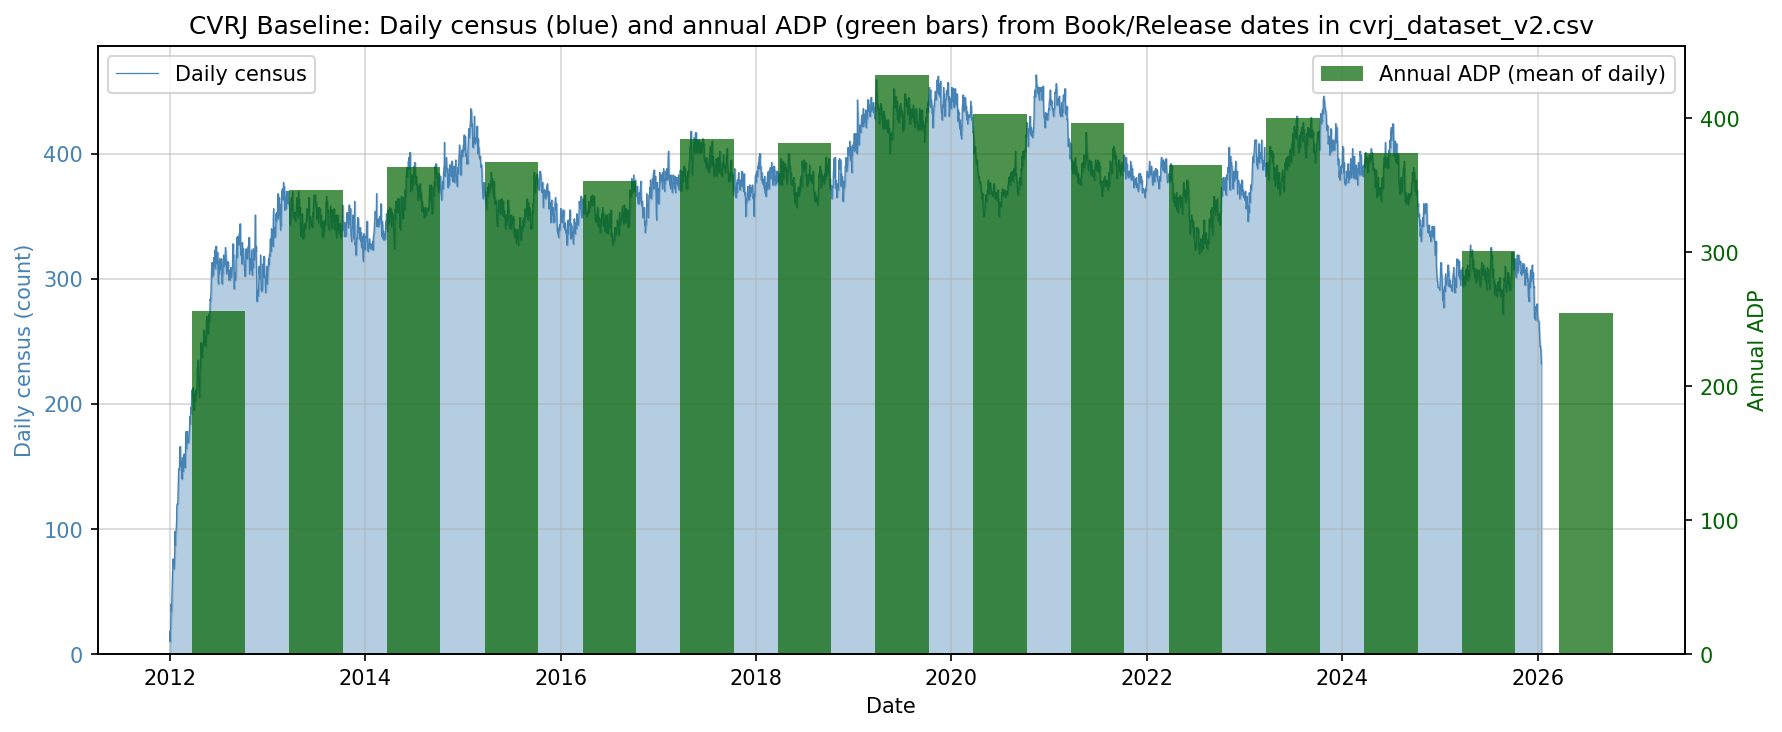
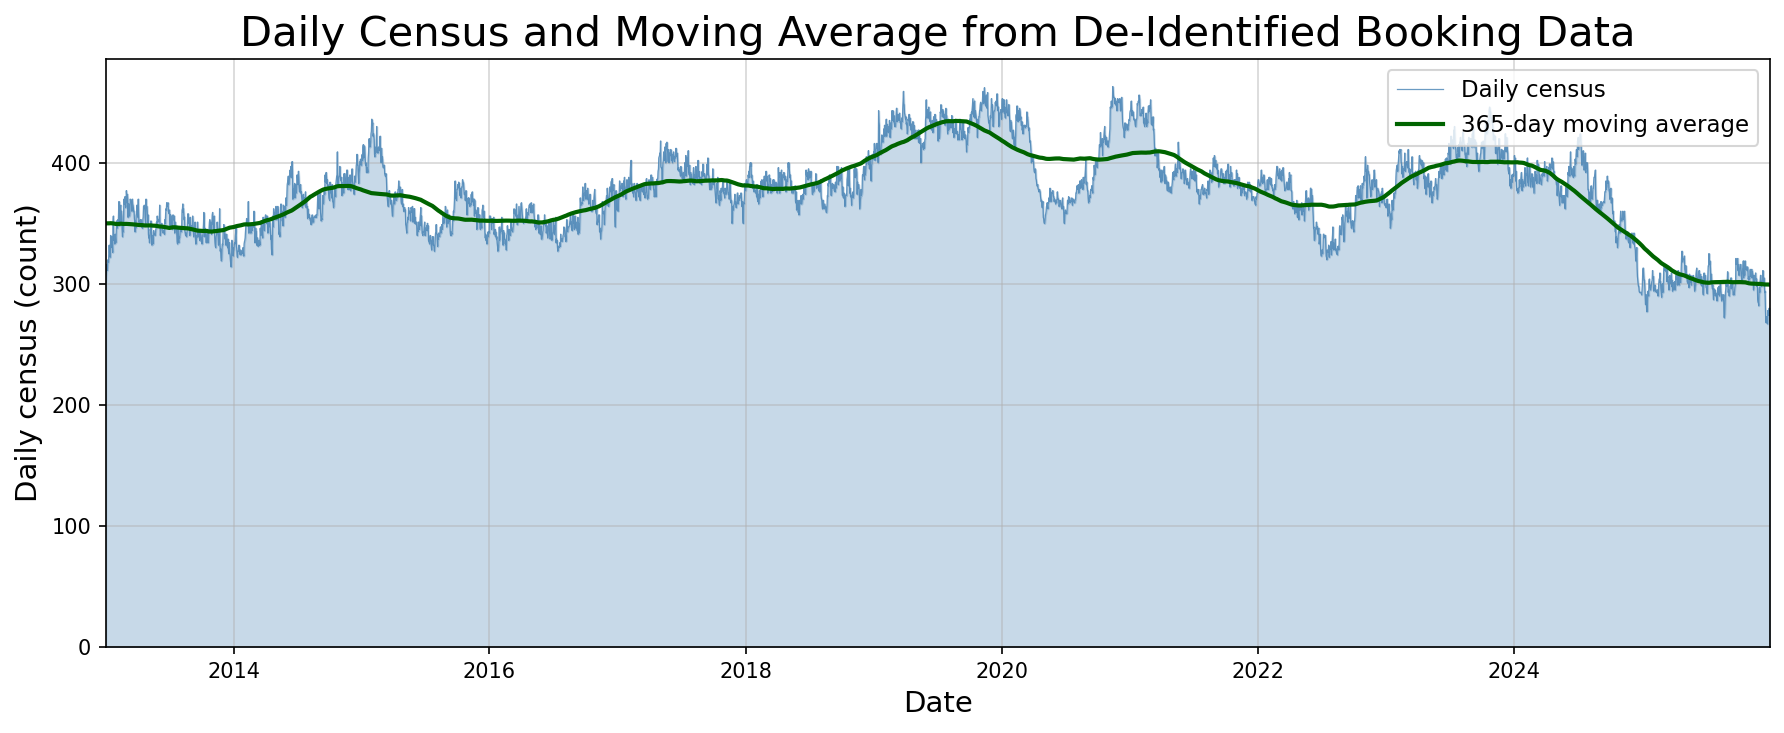
updated visualizations" ""
dkljsf
exit
q

diff --git a/scripts/07_capacity_forecast_visualization.py b/scripts/07_capacity_forecast_visualization.py
@@ -12,11 +12,18 @@ import pandas as pd
 import numpy as np
 import matplotlib.pyplot as plt
 
+_SCRIPT_DIR = os.path.dirname(os.path.abspath(__file__))
+_ROOT = os.path.dirname(_SCRIPT_DIR)
+
 MAX_CAPACITY = 660
-FORECAST_ADP_CSV = "../data/outputs/forecast_annual_cvrj_adp.csv"
-FORECAST_RESULTS_CSV = "../data/outputs/forecast_results.csv"
-CULPEPER_IN_CVRJ_CSV = "../data/outputs/forecast_annual_culpeper_in_cvrj.csv"  # County 47 from cvrj_dataset_v2.csv
+FORECAST_ADP_CSV = os.path.join(_ROOT, "data", "outputs", "forecast_annual_cvrj_adp.csv")
+FORECAST_RESULTS_CSV = os.path.join(_ROOT, "data", "outputs", "forecast_results.csv")
+CULPEPER_IN_CVRJ_CSV = os.path.join(_ROOT, "data", "outputs", "forecast_annual_culpeper_in_cvrj.csv")
 FORECAST_START_YEAR = 2026
+FONT_TITLE = 16
+FONT_LABEL = 13
+FONT_LEGEND = 11
+FONT_ANNO = 12
 
 
 def load_forecast_data():
@@ -50,42 +57,88 @@ def build_combined_historical(annual_cvrj_adp, annual_culpeper_in_cvrj):
 
 
 def plot_capacity(ax, annual_cvrj_adp, years_future, cvrj_forecast_vals, combined_forecast,
-                  combined_historical, draw_forecast_marker=True):
-    """Draw capacity plot onto ax: blue = CVRJ (hist + forecast), orange = combined (hist + forecast), red = 660."""
+                  annual_culpeper_in_cvrj, culpeper_forecast_vals, draw_forecast_marker=True):
+    """Draw capacity plot: CVRJ baseline full; Culpeper-only full; CVRJ+Culpeper only on forecast side."""
     hist_years = annual_cvrj_adp.index
-    # Ensure chronological order: historical then forecast
     all_years = list(hist_years) + list(years_future)
-    all_vals_cvrj = np.concatenate([annual_cvrj_adp.values, cvrj_forecast_vals])
-    all_vals_combined = np.concatenate([combined_historical.values, combined_forecast])
+    x_forecast = pd.Timestamp(f'{FORECAST_START_YEAR}-01-01')
 
-    # Blue: one continuous line 2012 → end of forecast (CVRJ baseline excluding Culpeper)
+    # CVRJ baseline: entire plot
+    all_vals_cvrj = np.concatenate([annual_cvrj_adp.values, cvrj_forecast_vals])
     ax.plot(all_years, all_vals_cvrj, 'o-', color='steelblue', markersize=5, linewidth=1.5,
             label='CVRJ baseline (excl. Culpeper)')
 
-    # Orange: one continuous line 2012 → end of forecast (combined; 2020+ adds Culpeper, then forecast)
-    ax.plot(all_years, all_vals_combined, 's-', color='darkorange', markersize=5, linewidth=2,
+    # Culpeper only: entire plot (historical from CSV + forecast)
+    if annual_culpeper_in_cvrj is not None and not annual_culpeper_in_cvrj.empty and culpeper_forecast_vals is not None:
+        # Align historical Culpeper to hist_years (fill missing with NaN or 0)
+        culp_hist_vals = np.array([
+            annual_culpeper_in_cvrj.loc[t] if t in annual_culpeper_in_cvrj.index else np.nan
+            for t in hist_years
+        ])
+        culp_hist_vals = np.nan_to_num(culp_hist_vals, nan=0.0)
+        all_vals_culp = np.concatenate([culp_hist_vals, culpeper_forecast_vals])
+        ax.plot(all_years, all_vals_culp, '^-', color='green', markersize=4, linewidth=1.2,
+                label='Culpeper (in CVRJ)')
+
+    # Ensure orange line starts exactly at forecast start year
+    start_date = pd.Timestamp(f'{FORECAST_START_YEAR}-01-01')
+
+    years_future_trim = years_future[years_future >= start_date]
+    combined_trim = combined_forecast[years_future >= start_date]
+
+    ax.plot(years_future_trim, combined_trim,
+            's-', color='darkorange',
+            markersize=5, linewidth=2,
             label='CVRJ + Culpeper (combined)')
 
-    # Max capacity
+    # Maximum capacity line
+    # Maximum capacity line
     ax.axhline(y=MAX_CAPACITY, color='red', linestyle='-', linewidth=2,
-               label=f'Max capacity ({MAX_CAPACITY} beds)')
+            label='Maximum Capacity (660 beds)')
 
-    # Mark when forecast starts
+    # Label the red line directly
+    ax.text(pd.Timestamp('2035-01-01'), MAX_CAPACITY + 5,
+            'Maximum capacity',
+            color='red',
+            fontsize=FONT_ANNO,
+            ha='right',
+            va='bottom')
+    # Forecast demarcation: vertical line + shaded region + arrows with labels
     if draw_forecast_marker:
-        ax.axvline(x=pd.Timestamp(f'{FORECAST_START_YEAR}-01-01'), color='gray', linestyle='--', linewidth=1.5,
-                   label='Forecast begins', zorder=0)
+        ax.axvline(x=x_forecast, color='gray', linestyle='--', linewidth=1.5, zorder=0)
         ymin, ymax = ax.get_ylim()
-        ax.axvspan(pd.Timestamp(f'{FORECAST_START_YEAR}-01-01'), all_years[-1], alpha=0.08, color='gray', zorder=0)
+        ax.axvspan(x_forecast, all_years[-1], alpha=0.08, color='gray', zorder=0)
         ax.set_ylim(ymin, ymax)
-        ax.text(0.28, 0.97, 'Historical', transform=ax.transAxes, ha='center', va='top', fontsize=9, color='gray')
-        ax.text(0.82, 0.97, 'Forecast', transform=ax.transAxes, ha='center', va='top', fontsize=9, color='gray')
+                # Get top of plot
+        ymin, ymax = ax.get_ylim()
+        y_arrow = ymax * 0.90  # slightly below top
 
-    ax.set_xlabel('Year')
-    ax.set_ylabel('Average daily population (beds)')
+        # Forecast arrow (pointing right from dashed line)
+        ax.annotate('Forecast',
+                    xy=(x_forecast, y_arrow),
+                    xytext=(pd.Timestamp('2033-01-01'), y_arrow),
+                    fontsize=FONT_ANNO,
+                    ha='left', va='center',
+                    color='gray',
+                    arrowprops=dict(arrowstyle='<-', color='gray', lw=1.5))
+
+        # Historical arrow (pointing left toward dashed line)
+        ax.annotate('Historical',
+                    xy=(x_forecast, y_arrow),
+                    xytext=(pd.Timestamp('2016-01-01'), y_arrow),
+                    fontsize=FONT_ANNO,
+                    ha='left', va='center',
+                    color='gray',
+                    arrowprops=dict(arrowstyle='<-', color='gray', lw=1.5))
+
+    ax.set_xlabel('Year', fontsize=FONT_LABEL)
+    ax.set_ylabel('Average daily population (beds)', fontsize=FONT_LABEL)
+    ax.tick_params(axis='both', labelsize=FONT_LEGEND)
     ax.set_ylim(0, None)
     ax.set_xlim(pd.Timestamp('2012-01-01'), pd.Timestamp('2036-01-01'))
     ax.grid(True, alpha=0.5)
-    ax.legend(loc='upper left', fontsize=9)
+    # Legend lower so it doesn't cover the max capacity line
+    ax.legend(loc='upper left', bbox_to_anchor=(0.02, 0.87), fontsize=FONT_LEGEND, framealpha=0.95)
 
 
 def main():
@@ -100,23 +153,24 @@ def main():
     years_future = res_df.index
     cvrj_forecast_vals = res_df['CVRJ_Baseline_NoCulpeper'].values
     combined_forecast = res_df['Combined_Load'].values
-    combined_historical = build_combined_historical(annual_cvrj_adp, annual_culpeper_in_cvrj)
+    culpeper_forecast_vals = res_df['Culpeper_In_CVRJ'].values if 'Culpeper_In_CVRJ' in res_df.columns else None
 
     # --- Figure 1: Capacity with vs without Culpeper + 660 line ---
     fig, ax = plt.subplots(figsize=(12, 6))
     plot_capacity(ax, annual_cvrj_adp, years_future, cvrj_forecast_vals, combined_forecast,
-                  combined_historical, draw_forecast_marker=True)
-    ax.set_title('CVRJ bed need: with vs without Culpeper County (max capacity = 660 beds)')
+                  annual_culpeper_in_cvrj, culpeper_forecast_vals, draw_forecast_marker=True)
+    ax.set_title('CVRJ bed need: with vs without Culpeper County (max capacity = 660 beds)', fontsize=FONT_TITLE)
     plt.tight_layout()
-    plt.savefig('visuals/capacity_forecast_with_and_without_culpeper.png', dpi=150, bbox_inches='tight')
-    print("Saved: visuals/capacity_forecast_with_and_without_culpeper.png")
+    out1 = os.path.join(_ROOT, 'visuals', 'capacity_forecast_with_and_without_culpeper.png')
+    plt.savefig(out1, dpi=150, bbox_inches='tight')
+    print(f"Saved: {out1}")
     plt.close()
 
     # --- Figure 2: Same plot + methodology text ---
     fig2, ax2 = plt.subplots(figsize=(12, 7))
     plot_capacity(ax2, annual_cvrj_adp, years_future, cvrj_forecast_vals, combined_forecast,
-                  combined_historical, draw_forecast_marker=True)
-    ax2.set_title('CVRJ bed need: with vs without Culpeper County (max capacity = 660 beds)')
+                  annual_culpeper_in_cvrj, culpeper_forecast_vals, draw_forecast_marker=True)
+    ax2.set_title('CVRJ bed need: with vs without Culpeper County (max capacity = 660 beds)', fontsize=FONT_TITLE)
 
     methodology = (
         "How the forecasts are created:\n\n"
@@ -129,11 +183,12 @@ def main():
         "3. Combined load: CVRJ baseline + Culpeper-in-CVRJ (from CSV). If combined > 660,\n"
         "   CVRJ would be over capacity if Culpeper joins."
     )
-    ax2.text(0.98, 0.98, methodology, transform=ax2.transAxes, fontsize=7,
+    ax2.text(0.98, 0.98, methodology, transform=ax2.transAxes, fontsize=8,
              va='top', ha='right', bbox=dict(boxstyle='round', facecolor='lightyellow', alpha=0.95))
     plt.tight_layout()
-    plt.savefig('visuals/capacity_forecast_with_methodology.png', dpi=150, bbox_inches='tight')
-    print("Saved: visuals/capacity_forecast_with_methodology.png")
+    out2 = os.path.join(_ROOT, 'visuals', 'capacity_forecast_with_methodology.png')
+    plt.savefig(out2, dpi=150, bbox_inches='tight')
+    print(f"Saved: {out2}")
     plt.close()
 
     print("\nDone. Red line = 660-bed capacity. Orange = CVRJ + Culpeper-in-CVRJ (from CSV); blue = CVRJ only.")

diff --git a/scripts/06_visualize_adp_calculation.py b/scripts/06_visualize_adp_calculation.py
@@ -22,8 +22,10 @@ import matplotlib.pyplot as plt
 from matplotlib.patches import Rectangle
 from matplotlib.lines import Line2D
 
-DATA_DIR = "../data/raw"
-CVRJ_FILE = "../data/processed/cvrj_dataset_v2.csv"
+_SCRIPT_DIR = os.path.dirname(os.path.abspath(__file__))
+_ROOT = os.path.dirname(_SCRIPT_DIR)
+DATA_DIR = os.path.join(_ROOT, "data", "raw")
+CVRJ_FILE = os.path.join(_ROOT, "data", "processed", "cvrj_dataset_v2.csv")
 
 
 def compute_daily_census_and_adp(df, max_date_cap=None):
@@ -143,38 +145,51 @@ def main():
     ax3.grid(True, alpha=0.5)
 
     plt.tight_layout()
-    out_path = 'visuals/eda_adp_calculation.png'
+    out_path = os.path.join(_ROOT, 'visuals', 'eda_adp_calculation.png')
     plt.savefig(out_path, dpi=150, bbox_inches='tight')
     print(f"Saved: {out_path}")
     plt.close()
 
-    # ---- Second figure: Full daily census + annual ADP on same plot (CVRJ only) ----
-    fig2, ax_left = plt.subplots(figsize=(12, 5))
-    ax_right = ax_left.twinx()
+    # ---- Second figure: Daily census (trimmed 2013–2025) + moving averages ----
+    start_cut = pd.Timestamp('2013-01-01')
+    end_cut = pd.Timestamp('2025-12-31')  # end before drop-off at 2026
+    full_daily = daily_census.loc[(daily_census.index >= start_cut) & (daily_census.index <= end_cut)]
 
-    full_daily = daily_census
-    ax_left.fill_between(full_daily.index, full_daily.values, alpha=0.4, color='steelblue')
-    ax_left.plot(full_daily.index, full_daily.values, color='steelblue', linewidth=0.6, label='Daily census')
-    ax_left.set_ylabel('Daily census (count)', color='steelblue')
-    ax_left.tick_params(axis='y', labelcolor='steelblue')
-    ax_left.set_ylim(0, None)
+    fig2, ax = plt.subplots(figsize=(12, 5))
+    ax.fill_between(full_daily.index, full_daily.values, alpha=0.3, color='steelblue')
+    ax.plot(full_daily.index, full_daily.values, color='steelblue', linewidth=0.6, label='Daily census', alpha=0.8)
 
-    annual_adp_plot = annual_adp.copy()
-    annual_adp_plot.index = annual_adp_plot.index - pd.offsets.MonthBegin(6)  # center bar in year
-    ax_right.bar(annual_adp_plot.index, annual_adp_plot.values, width=200, color='darkgreen', alpha=0.7, label='Annual ADP (mean of daily)')
-    ax_right.set_ylabel('Annual ADP', color='darkgreen')
-    ax_right.tick_params(axis='y', labelcolor='darkgreen')
+    # Moving averages: 365-day, 90-day, 30-day (centered for symmetry; use min_periods so we get values near edges)
+    ma365 = full_daily.rolling(window=365, min_periods=1, center=True).mean()
+    ma90 = full_daily.rolling(window=90, min_periods=1, center=True).mean()
+    ma30 = full_daily.rolling(window=30, min_periods=1, center=True).mean()
+    ax.plot(ma365.index, ma365.values, color='darkgreen', linewidth=2, label='365-day moving average')
+    #ax.plot(ma90.index, ma90.values, color='darkorange', linewidth=1.5, label='90-day moving average')
+    #ax.plot(ma30.index, ma30.values, color='purple', linewidth=1.2, label='30-day moving average')
 
-    ax_left.set_xlabel('Date')
-    ax_left.set_title('CVRJ Baseline: Daily census (blue) and annual ADP (green bars) from Book/Release dates in cvrj_dataset_v2.csv')
-    ax_left.legend(loc='upper left')
-    ax_right.legend(loc='upper right')
-    ax_left.grid(True, alpha=0.5)
+    ax.set_xlabel('Date', fontsize = 14)
+    ax.set_ylabel('Daily census (count)', fontsize = 14)
+    ax.set_title('Daily Census and Moving Average from De-Identified Booking Data', fontsize = 20)
+    ax.legend(loc='upper right', fontsize=11)
+    ax.set_ylim(0, None)
+    ax.grid(True, alpha=0.5)
+    #ax.text(0.02, 0.02, 'Recommendation: 365-day MA best for capacity planning (smooth trend).',
+    #        transform=ax.transAxes, fontsize=8, va='bottom', ha='left',
+    #        bbox=dict(boxstyle='round', facecolor='wheat', alpha=0.9))
     plt.tight_layout()
-    out_path2 = 'visuals/adp_daily_and_annual.png'
+    ax.margins(x=0)
+    out_path2 = os.path.join(_ROOT, 'visuals', 'adp_daily_and_annual.png')
     plt.savefig(out_path2, dpi=150, bbox_inches='tight')
     print(f"Saved: {out_path2}")
     plt.close()
+
+    # Recommendation: which moving average is best
+    print("\n--- Moving average recommendation ---")
+    print("365-day: Best for capacity planning. Smooths to roughly annual level; shows the underlying")
+    print("         trend without seasonal/noisy swings. Use this when comparing to annual ADP or capacity.")
+    print("90-day:  Good balance—responds to quarterly changes but still smooth. Useful for mid-term planning.")
+    print("30-day:  Most responsive; shows recent swings but is noisier. Use for operational 'what’s happening now'.")
+    print("Recommendation: Use the 365-day moving average when discussing bed need and capacity with stakeholders.")
 
     print("\nDone. ADP is computed from Book Date and Release Date (length of stay is implicit);")
     print("Culpeper ADP in the forecast script is currently hardcoded; this script also shows")
